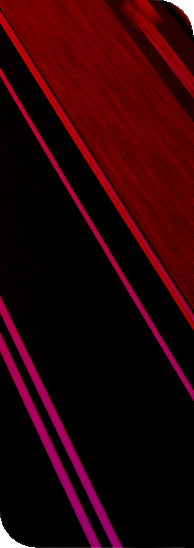
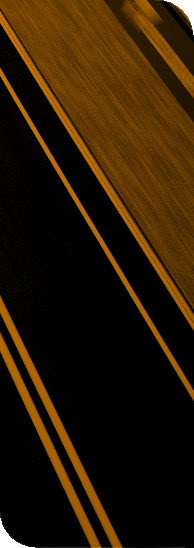
Orange styling

diff --git a/project_sim_racing/static/races.css b/project_sim_racing/static/races.css
@@ -27,7 +27,7 @@ body {
     width: inherit;
     height: 7vw;
     margin-bottom: 1rem;
-    background-color: rgba(255, 0, 0, 0.7);
+    background-color: rgba(255, 136, 0, 0.85);
     border-top-right-radius: 70%;
     border-bottom-left-radius: 20%;
     padding: 5px 20px;
@@ -63,9 +63,9 @@ body {
   }
 
 .btn:hover{
-    background-color: red;
+    background-color: rgba(255, 136, 0, 0.7);
     transition: 0.6s ease;
-    border-color: red;
+    border-color: rgba(255, 136, 0, 0.7);
     color: white;  
 }
 
@@ -88,9 +88,8 @@ body {
 }
 
 .stat-bar {
-    background-color: red;
+    background-color: rgba(255, 136, 0, 0.9);
     height: 100%;
-    opacity: 0.8;
     border-radius: 20px;
 }
 
@@ -125,7 +124,8 @@ body {
 .banner:hover {
     -webkit-filter: grayscale(0);
     filter: grayscale(0);
-    transition: 0.6s ease;
+    transition: 0.6s;
+    transform: translateY(-10px);
 }
 
 .trackinfo{
@@ -164,7 +164,7 @@ body {
     left: 0;
     border-bottom-left-radius: 3vw;
     border-top-right-radius: 3vw;
-    background-color: red;
+    background-color: rgba(255, 136, 0, 0.95);
     width: 100%;
     height: 5vh;
     color: white;
@@ -174,7 +174,7 @@ body {
 
 .register:hover {
     opacity: 1;
-    box-shadow: 0 0 10px 1px red;
+    box-shadow: 0 0 10px 1px rgba(255, 136, 0);
 }
 
 .sessioninfo {
@@ -183,7 +183,7 @@ body {
     padding-bottom: 1vh;
     width: 100%;
     height: auto;
-    background-color: rgba(255, 73, 73, 0.527);
+    background-color: rgba(255, 136, 0, 0.7);
     color: white;
 }
 

diff --git a/project_sim_racing/race/templates/race/races.html b/project_sim_racing/race/templates/race/races.html
@@ -40,7 +40,7 @@
             </div>
 
             <a class="btn" href="/blog">News📰</a>
-            <a class="btn" href="/blog">Rules Book📖</a>
+            <a class="btn" href="/blog">Rule Book📖</a>
             <a class="btn" href="/blog">Privacy Policy and Terms of Use📝</a>
             {% if user.is_staff %}
             <a class="btn" href="/admin">Admin Panel</a>
